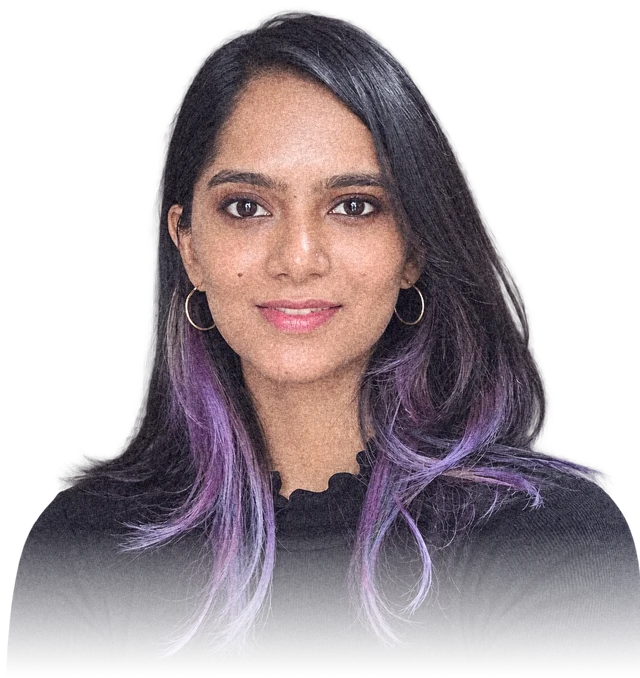
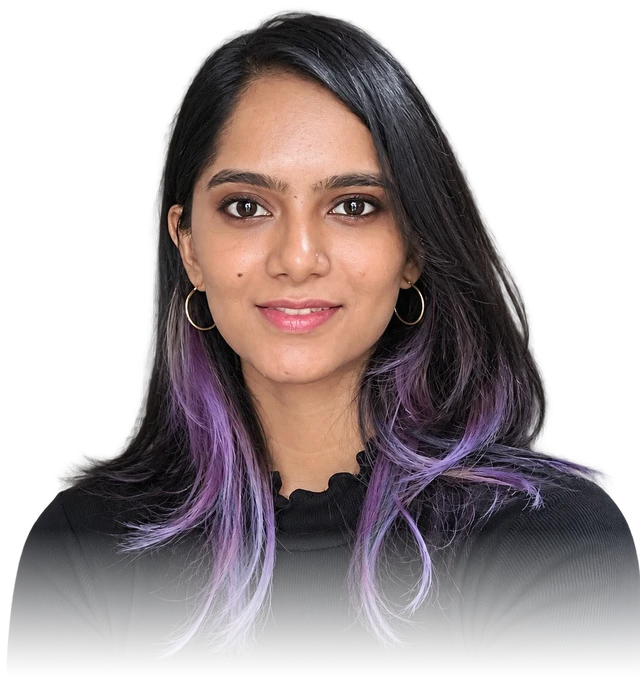
Give tiles physical depth; remove grain from headshot
Tiles now have a stepped edge (thickness), a bevelled, slightly domed face
and a soft cast shadow; the revealed side gets a matching ivory edge.
Seams widened so each edge reads. Headshot re-exported without grain.

Claude-Session: https://claude.ai/code/session_01HMXuHd8uDEADmxtaTzqHFA

Changed region(s): [[0.0312, 0.031, 1.0, 0.8363]]

diff --git a/styles.css b/styles.css
@@ -154,7 +154,7 @@ h1, h2, h3, p, figure, ul { margin: 0; }
      are set per tile below, so the layout is ordered but not linear. */
   --span: 24;
   --h: 12;
-  --seam: 4px;
+  --seam: 8px;
   position: relative;
   aspect-ratio: var(--span) / var(--h);
   list-style: none; padding: 0;
@@ -254,12 +254,31 @@ h1, h2, h3, p, figure, ul { margin: 0; }
   overflow: hidden;
   -webkit-backface-visibility: hidden;
   backface-visibility: hidden;
-  box-shadow: inset 0 0 0 1px rgb(241 223 173 / .08), 0 1px 0 rgb(0 0 0 / .4);
+  /* Physical depth: a stepped edge below the face (the tile's thickness),
+     then a soft cast shadow on the page. Vertical offsets only, so the
+     light reads the same after the tile flips. */
+  --edge: #2A1F45;
+  --edge-dark: #1B1430;
+  box-shadow:
+    0 1px 0 var(--edge), 0 2px 0 var(--edge), 0 3px 0 var(--edge),
+    0 4px 0 var(--edge-dark), 0 5px 0 var(--edge-dark), 0 6px 0 var(--edge-dark),
+    0 8px 6px -2px rgb(0 0 0 / .55),
+    0 18px 28px -8px rgb(0 0 0 / .6);
+  transition: box-shadow 260ms var(--ease);
 }
 .tile__front img { width: 100%; height: 100%; object-fit: cover; }
-.tile__front::after {   /* faint pressed-cement sheen */
+.tile__front::after {   /* bevelled, slightly domed pressed-cement surface */
   content: ""; position: absolute; inset: 0; pointer-events: none;
-  background: linear-gradient(135deg, rgb(255 255 255 / .06), transparent 45%, rgb(0 0 0 / .12));
+  border-radius: inherit;
+  background:
+    radial-gradient(120% 90% at 30% 15%, rgb(255 255 255 / .14), transparent 55%),
+    linear-gradient(160deg, transparent 55%, rgb(0 0 0 / .22));
+  box-shadow:
+    inset 0 2px 0 rgb(255 255 255 / .22),
+    inset 2px 0 0 rgb(255 255 255 / .08),
+    inset -2px 0 0 rgb(0 0 0 / .22),
+    inset 0 -3px 0 rgb(0 0 0 / .35),
+    inset 0 0 0 1px rgb(21 18 28 / .6);
 }
 
 .tile__back {
@@ -273,7 +292,15 @@ h1, h2, h3, p, figure, ul { margin: 0; }
     radial-gradient(circle at 0 100%, var(--lilac) 0 9cqi, transparent calc(9cqi + .5px)),
     var(--ivory);
   color: var(--ink);
-  box-shadow: inset 0 0 0 1.5px var(--ink), inset 0 0 0 5cqi var(--ivory), inset 0 0 0 calc(5cqi + 1px) var(--violet);
+  --edge: #B8A271;
+  --edge-dark: #8C7A50;
+  box-shadow:
+    inset 0 2px 0 rgb(255 255 255 / .5), inset 0 -3px 0 rgb(0 0 0 / .14),
+    inset 0 0 0 1.5px var(--ink), inset 0 0 0 5cqi var(--ivory), inset 0 0 0 calc(5cqi + 1px) var(--violet),
+    0 1px 0 var(--edge), 0 2px 0 var(--edge), 0 3px 0 var(--edge),
+    0 4px 0 var(--edge-dark), 0 5px 0 var(--edge-dark), 0 6px 0 var(--edge-dark),
+    0 8px 6px -2px rgb(0 0 0 / .55),
+    0 22px 34px -8px rgb(0 0 0 / .7);
 }
 .tile__title {
   font: 500 clamp(1rem, 10cqi, 2rem)/1.08 var(--serif);
